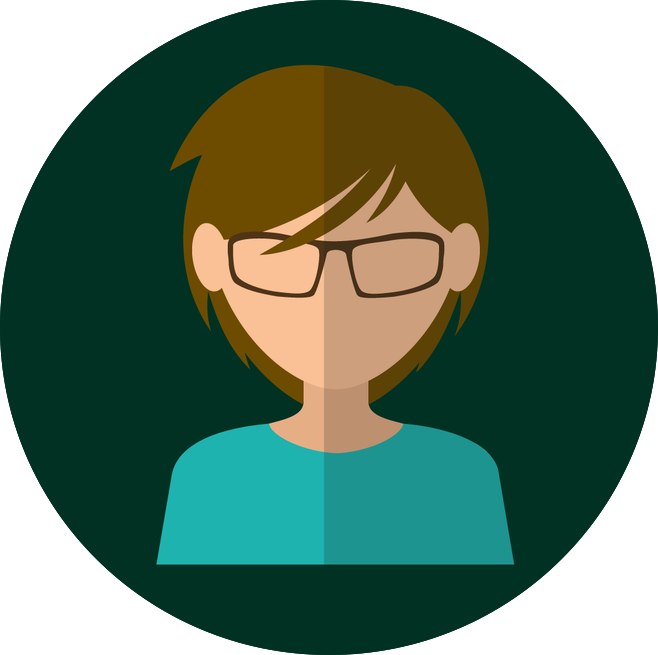
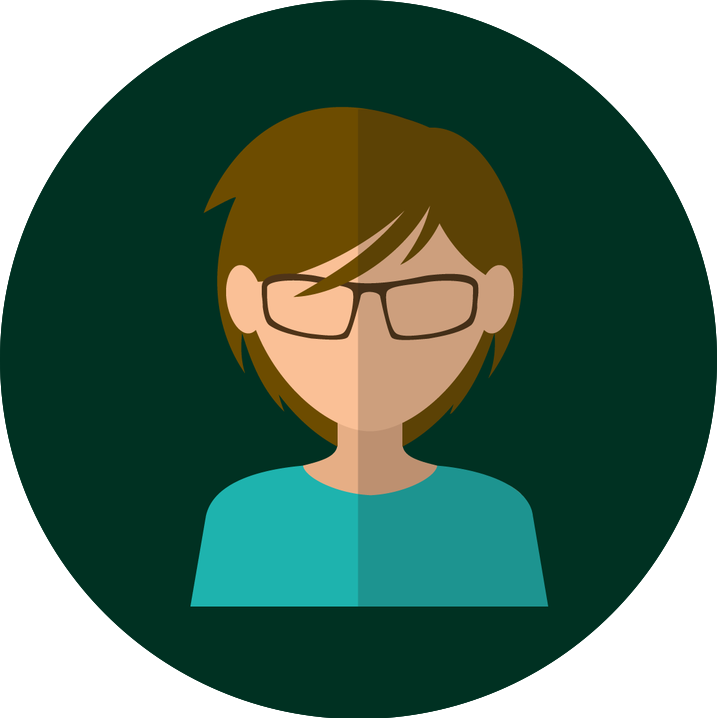
add eric

diff --git a/templates/index.html b/templates/index.html
@@ -63,7 +63,7 @@
   <div class="team" style="display:none;">
     <center><h1>Meet my team!</h1></center>
     Creating Hedgehog was no easy task. I needed a team of dedicated coders, who shared the vision I had for Hedgehog, and their hard work brought it to life. Here they are!
-    <br><br>
+    <br><br><br>
     <table width="100%" style="text-align: center;">
       <!--
       <tr>
@@ -73,11 +73,15 @@
         <td><img src="{{ url_for('static', filename='img/team/achan.png') }}"
     id="angela"
     style="height:100px;"></td>
-        <td>pic2</td>
+        <td><img src="{{ url_for('static', filename='img/team/lcheng.png') }}"
+    id="leon"
+    style="height:100px;"></td>
         <td><img src="{{ url_for('static', filename='img/team/achiu.png') }}"
     id="amanda"
     style="height:100px;"></td>
-        <td>pic4</td>
+    <td><img src="{{ url_for('static', filename='img/team/estringham.png') }}"
+    id="eric"
+    style="height:100px;"></td>
       </tr>
       <tr>
         <td>Leader<br>Angela Chan</td>
